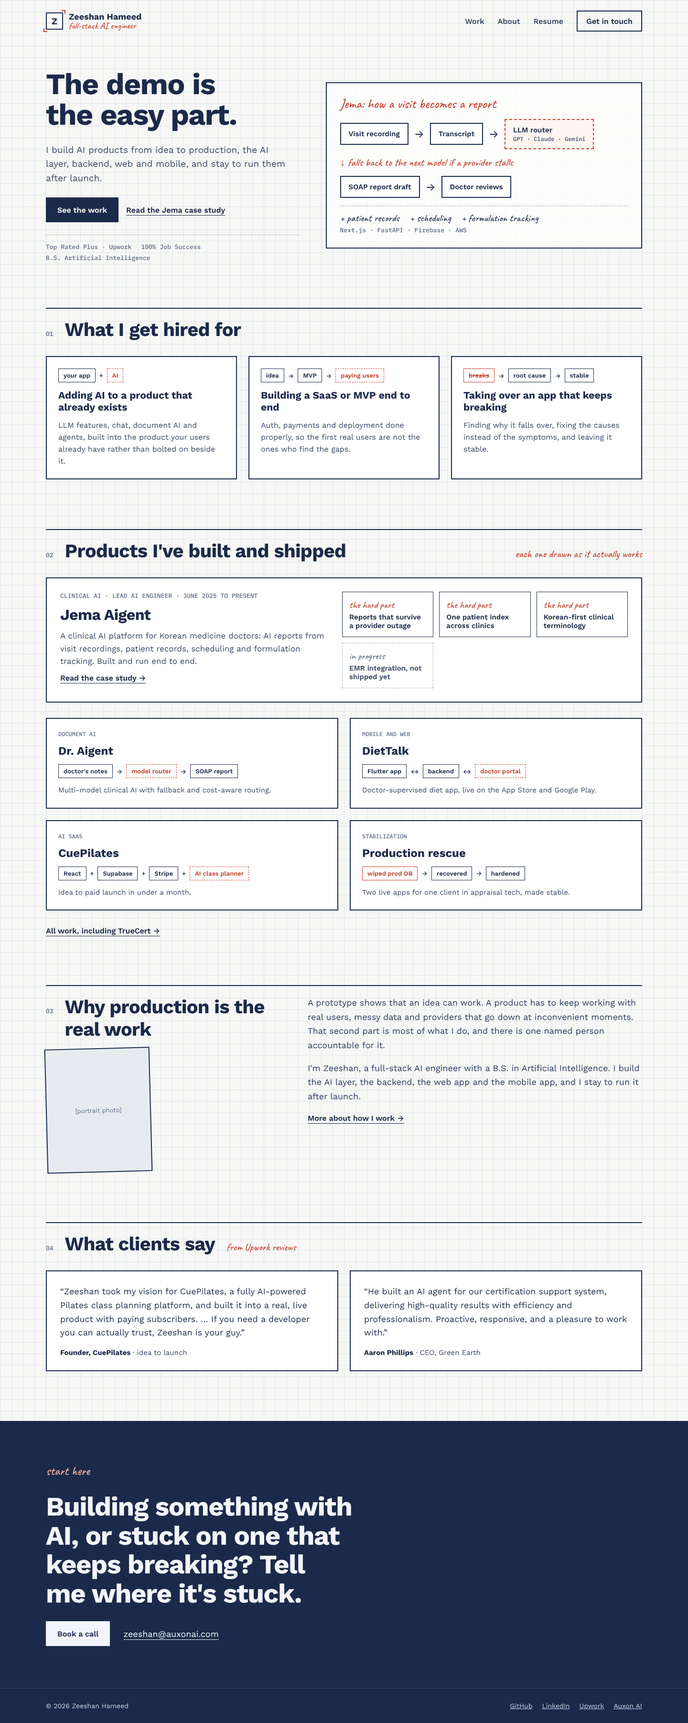
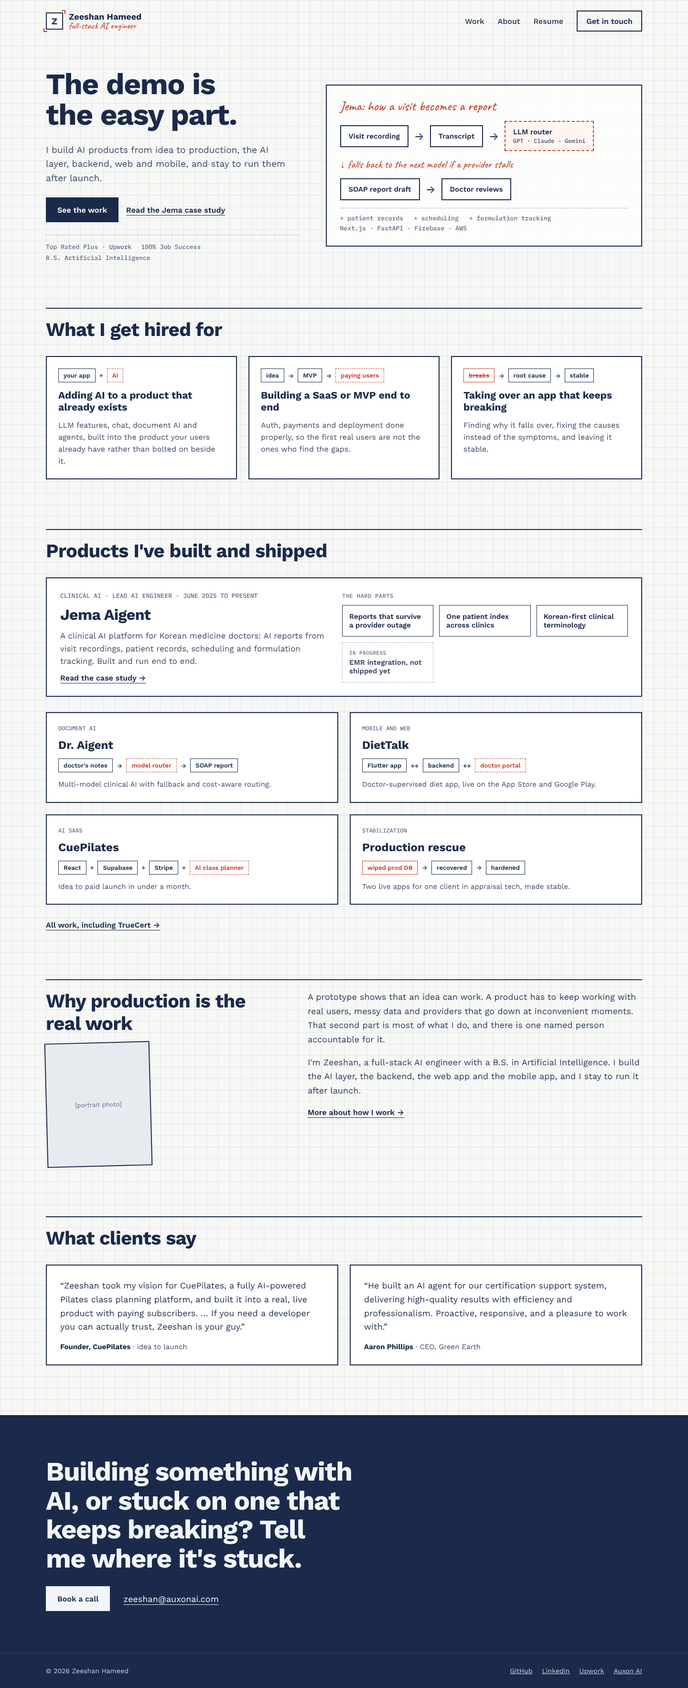
Update Blueprint design reference and add review-fixes handoff

diff --git a/docs/design/blueprint/RZ-Home.html b/docs/design/blueprint/RZ-Home.html
@@ -42,18 +42,15 @@
       <figcaption style="font-family: 'Caveat', cursive; font-size: 28px; color: #C2412D; line-height: 1.1">Jema: how a visit becomes a report</figcaption>
       <div style="display: flex; flex-wrap: wrap; align-items: center; gap: 12px">
         <div style="padding: 12px 16px; border: 2px solid #1B2A4A; background: #FFFFFF; font-weight: 600; font-size: 15px">Visit recording</div>
-        <span aria-hidden="true" style="font-size: 22px">→</span>
-        <div style="padding: 12px 16px; border: 2px solid #1B2A4A; background: #FFFFFF; font-weight: 600; font-size: 15px">Transcript</div>
-        <span aria-hidden="true" style="font-size: 22px">→</span>
-        <div style="padding: 12px 16px; border: 2px dashed #C2412D; background: #FFF6F2; display: flex; flex-direction: column; gap: 2px"><span style="font-weight: 600; font-size: 15px">LLM router</span><span style="font-family: 'IBM Plex Mono', ui-monospace, monospace; font-size: 12px; color: #3A4865">GPT · Claude · Gemini</span></div>
+        <div style="display: flex; align-items: center; gap: 12px"><span aria-hidden="true" style="font-size: 22px">→</span><div style="padding: 12px 16px; border: 2px solid #1B2A4A; background: #FFFFFF; font-weight: 600; font-size: 15px">Transcript</div></div>
+        <div style="display: flex; align-items: center; gap: 12px"><span aria-hidden="true" style="font-size: 22px">→</span><div style="padding: 12px 16px; border: 2px dashed #C2412D; background: #FFF6F2; display: flex; flex-direction: column; gap: 2px"><span style="font-weight: 600; font-size: 15px">LLM router</span><span style="font-family: 'IBM Plex Mono', ui-monospace, monospace; font-size: 12px; color: #3A4865">GPT · Claude · Gemini</span></div></div>
       </div>
       <span style="font-family: 'Caveat', cursive; font-size: 22px; color: #C2412D; line-height: 1.1">↓ falls back to the next model if a provider stalls</span>
       <div style="display: flex; flex-wrap: wrap; align-items: center; gap: 12px">
         <div style="padding: 12px 16px; border: 2px solid #1B2A4A; background: #FFFFFF; font-weight: 600; font-size: 15px">SOAP report draft</div>
-        <span aria-hidden="true" style="font-size: 22px">→</span>
-        <div style="padding: 12px 16px; border: 2px solid #1B2A4A; background: #FFFFFF; font-weight: 600; font-size: 15px">Doctor reviews</div>
+        <div style="display: flex; align-items: center; gap: 12px"><span aria-hidden="true" style="font-size: 22px">→</span><div style="padding: 12px 16px; border: 2px solid #1B2A4A; background: #FFFFFF; font-weight: 600; font-size: 15px">Doctor reviews</div></div>
       </div>
-      <div style="display: flex; flex-wrap: wrap; gap: 4px 22px; padding-top: 12px; border-top: 1.5px dashed #9AA6BA; font-family: 'Caveat', cursive; font-size: 21px">
+      <div style="display: flex; flex-wrap: wrap; gap: 4px 22px; padding-top: 12px; border-top: 1.5px dashed #9AA6BA; font-family: 'IBM Plex Mono', ui-monospace, monospace; font-size: 13px; color: #5E6B84">
         <span>+ patient records</span><span>+ scheduling</span><span>+ formulation tracking</span><span style="font-family: 'IBM Plex Mono', ui-monospace, monospace; font-size: 13px; color: #5E6B84; align-self: center">Next.js · FastAPI · Firebase · AWS</span>
       </div>
     </figure>
@@ -62,22 +59,21 @@
   <!-- HIRED FOR -->
   <section style="max-width: 1296px; margin: 0 auto; padding: 0 24px 104px; box-sizing: border-box; display: flex; flex-direction: column; gap: 32px">
     <div style="display: flex; flex-wrap: wrap; align-items: baseline; gap: 8px 24px; border-top: 2px solid #1B2A4A; padding-top: 20px">
-      <span style="font-family: 'IBM Plex Mono', ui-monospace, monospace; font-size: 13px; color: #5E6B84">01</span>
       <h2 style="margin: 0; font-size: clamp(28px, 3vw, 40px); letter-spacing: -0.02em">What I get hired for</h2>
     </div>
     <div style="display: grid; grid-template-columns: repeat(auto-fit, minmax(min(340px, 100%), 1fr)); gap: 24px">
       <article style="display: flex; flex-direction: column; gap: 14px; padding: 24px; background: #FFFFFF; border: 2px solid #1B2A4A">
-        <div aria-hidden="true" style="display: flex; align-items: center; gap: 8px; font-size: 13px; font-weight: 600"><span style="padding: 6px 10px; border: 1.5px solid #1B2A4A">your app</span><span>+</span><span style="padding: 6px 10px; border: 1.5px dashed #C2412D; color: #C2412D">AI</span></div>
+        <div aria-hidden="true" style="display: flex; align-items: center; gap: 8px; font-size: 13px; font-weight: 600"><span style="padding: 6px 10px; border: 1.5px solid #1B2A4A">your app</span><span style="display: inline-flex; align-items: center; gap: 8px"><span>+</span><span style="padding: 6px 10px; border: 1.5px dashed #C2412D; color: #C2412D">AI</span></span></div>
         <h3 style="margin: 0; font-size: 21px">Adding AI to a product that already exists</h3>
         <p style="margin: 0; font-size: 16px; line-height: 1.55; color: #3A4865">LLM features, chat, document AI and agents, built into the product your users already have rather than bolted on beside it.</p>
       </article>
       <article style="display: flex; flex-direction: column; gap: 14px; padding: 24px; background: #FFFFFF; border: 2px solid #1B2A4A">
-        <div aria-hidden="true" style="display: flex; align-items: center; gap: 8px; font-size: 13px; font-weight: 600"><span style="padding: 6px 10px; border: 1.5px solid #1B2A4A">idea</span><span>→</span><span style="padding: 6px 10px; border: 1.5px solid #1B2A4A">MVP</span><span>→</span><span style="padding: 6px 10px; border: 1.5px dashed #C2412D; color: #C2412D">paying users</span></div>
+        <div aria-hidden="true" style="display: flex; align-items: center; gap: 8px; font-size: 13px; font-weight: 600"><span style="padding: 6px 10px; border: 1.5px solid #1B2A4A">idea</span><span style="display: inline-flex; align-items: center; gap: 8px"><span>→</span><span style="padding: 6px 10px; border: 1.5px solid #1B2A4A">MVP</span></span><span style="display: inline-flex; align-items: center; gap: 8px"><span>→</span><span style="padding: 6px 10px; border: 1.5px dashed #C2412D; color: #C2412D">paying users</span></span></div>
         <h3 style="margin: 0; font-size: 21px">Building a SaaS or MVP end to end</h3>
         <p style="margin: 0; font-size: 16px; line-height: 1.55; color: #3A4865">Auth, payments and deployment done properly, so the first real users are not the ones who find the gaps.</p>
       </article>
       <article style="display: flex; flex-direction: column; gap: 14px; padding: 24px; background: #FFFFFF; border: 2px solid #1B2A4A">
-        <div aria-hidden="true" style="display: flex; align-items: center; gap: 8px; font-size: 13px; font-weight: 600"><span style="padding: 6px 10px; border: 1.5px solid #C2412D; color: #C2412D; text-decoration: line-through">breaks</span><span>→</span><span style="padding: 6px 10px; border: 1.5px solid #1B2A4A">root cause</span><span>→</span><span style="padding: 6px 10px; border: 1.5px solid #1B2A4A">stable</span></div>
+        <div aria-hidden="true" style="display: flex; align-items: center; gap: 8px; font-size: 13px; font-weight: 600"><span style="padding: 6px 10px; border: 1.5px solid #C2412D; color: #C2412D; text-decoration: line-through">breaks</span><span style="display: inline-flex; align-items: center; gap: 8px"><span>→</span><span style="padding: 6px 10px; border: 1.5px solid #1B2A4A">root cause</span></span><span style="display: inline-flex; align-items: center; gap: 8px"><span>→</span><span style="padding: 6px 10px; border: 1.5px solid #1B2A4A">stable</span></span></div>
         <h3 style="margin: 0; font-size: 21px">Taking over an app that keeps breaking</h3>
         <p style="margin: 0; font-size: 16px; line-height: 1.55; color: #3A4865">Finding why it falls over, fixing the causes instead of the symptoms, and leaving it stable.</p>
       </article>
@@ -87,8 +83,7 @@
   <!-- WORK -->
   <section id="work" style="max-width: 1296px; margin: 0 auto; padding: 0 24px 104px; box-sizing: border-box; display: flex; flex-direction: column; gap: 32px">
     <div style="display: flex; flex-wrap: wrap; align-items: baseline; justify-content: space-between; gap: 8px 24px; border-top: 2px solid #1B2A4A; padding-top: 20px">
-      <div style="display: flex; align-items: baseline; gap: 24px"><span style="font-family: 'IBM Plex Mono', ui-monospace, monospace; font-size: 13px; color: #5E6B84">02</span><h2 style="margin: 0; font-size: clamp(28px, 3vw, 40px); letter-spacing: -0.02em">Products I've built and shipped</h2></div>
-      <span style="font-family: 'Caveat', cursive; font-size: 22px; color: #C2412D">each one drawn as it actually works</span>
+      <div style="display: flex; align-items: baseline; gap: 24px"><h2 style="margin: 0; font-size: clamp(28px, 3vw, 40px); letter-spacing: -0.02em">Products I've built and shipped</h2></div>
     </div>
 
     <a href="#" style="display: flex; flex-wrap: wrap; gap: 32px; padding: 28px; background: #FFFFFF; border: 2px solid #1B2A4A; text-decoration: none; color: #1B2A4A">
@@ -99,10 +94,11 @@
         <span style="font-weight: 600; text-decoration: underline; text-underline-offset: 5px">Read the case study →</span>
       </div>
       <div aria-hidden="true" style="flex: 1 1 420px; min-width: 0; display: grid; grid-template-columns: repeat(auto-fit, minmax(min(180px, 100%), 1fr)); gap: 12px; align-content: center">
-        <div style="padding: 14px; border: 1.5px solid #1B2A4A; display: flex; flex-direction: column; gap: 4px"><span style="font-family: 'Caveat', cursive; font-size: 20px; color: #C2412D">the hard part</span><span style="font-size: 15px; font-weight: 600">Reports that survive a provider outage</span></div>
-        <div style="padding: 14px; border: 1.5px solid #1B2A4A; display: flex; flex-direction: column; gap: 4px"><span style="font-family: 'Caveat', cursive; font-size: 20px; color: #C2412D">the hard part</span><span style="font-size: 15px; font-weight: 600">One patient index across clinics</span></div>
-        <div style="padding: 14px; border: 1.5px solid #1B2A4A; display: flex; flex-direction: column; gap: 4px"><span style="font-family: 'Caveat', cursive; font-size: 20px; color: #C2412D">the hard part</span><span style="font-size: 15px; font-weight: 600">Korean-first clinical terminology</span></div>
-        <div style="padding: 14px; border: 1.5px dashed #9AA6BA; display: flex; flex-direction: column; gap: 4px"><span style="font-family: 'Caveat', cursive; font-size: 20px; color: #5E6B84">in progress</span><span style="font-size: 15px; font-weight: 600; color: #3A4865">EMR integration, not shipped yet</span></div>
+        <span style="grid-column: 1 / -1; font-family: 'IBM Plex Mono', ui-monospace, monospace; font-size: 12px; letter-spacing: 0.04em; color: #5E6B84">THE HARD PARTS</span>
+        <div style="padding: 14px; border: 1.5px solid #1B2A4A; display: flex; flex-direction: column; gap: 4px"><span style="font-size: 15px; font-weight: 600">Reports that survive a provider outage</span></div>
+        <div style="padding: 14px; border: 1.5px solid #1B2A4A; display: flex; flex-direction: column; gap: 4px"><span style="font-size: 15px; font-weight: 600">One patient index across clinics</span></div>
+        <div style="padding: 14px; border: 1.5px solid #1B2A4A; display: flex; flex-direction: column; gap: 4px"><span style="font-size: 15px; font-weight: 600">Korean-first clinical terminology</span></div>
+        <div style="padding: 14px; border: 1.5px dashed #9AA6BA; display: flex; flex-direction: column; gap: 4px"><span style="font-family: 'IBM Plex Mono', ui-monospace, monospace; font-size: 11px; letter-spacing: 0.04em; color: #5E6B84">IN PROGRESS</span><span style="font-size: 15px; font-weight: 600; color: #3A4865">EMR integration, not shipped yet</span></div>
       </div>
     </a>
 
@@ -110,25 +106,25 @@
       <a href="#" style="display: flex; flex-direction: column; gap: 14px; padding: 24px; background: #FFFFFF; border: 2px solid #1B2A4A; text-decoration: none; color: #1B2A4A">
         <span style="font-family: 'IBM Plex Mono', ui-monospace, monospace; font-size: 12px; color: #5E6B84">DOCUMENT AI</span>
         <h3 style="margin: 0; font-size: 24px">Dr. Aigent</h3>
-        <div aria-hidden="true" style="display: flex; flex-wrap: wrap; align-items: center; gap: 8px; font-size: 13px; font-weight: 600"><span style="padding: 6px 10px; border: 1.5px solid #1B2A4A">doctor's notes</span><span>→</span><span style="padding: 6px 10px; border: 1.5px dashed #C2412D; color: #C2412D">model router</span><span>→</span><span style="padding: 6px 10px; border: 1.5px solid #1B2A4A">SOAP report</span></div>
+        <div aria-hidden="true" style="display: flex; flex-wrap: wrap; align-items: center; gap: 8px; font-size: 13px; font-weight: 600"><span style="padding: 6px 10px; border: 1.5px solid #1B2A4A">doctor's notes</span><span style="display: inline-flex; align-items: center; gap: 8px"><span>→</span><span style="padding: 6px 10px; border: 1.5px dashed #C2412D; color: #C2412D">model router</span></span><span style="display: inline-flex; align-items: center; gap: 8px"><span>→</span><span style="padding: 6px 10px; border: 1.5px solid #1B2A4A">SOAP report</span></span></div>
         <p style="margin: 0; font-size: 15px; line-height: 1.55; color: #3A4865">Multi-model clinical AI with fallback and cost-aware routing.</p>
       </a>
       <a href="#" style="display: flex; flex-direction: column; gap: 14px; padding: 24px; background: #FFFFFF; border: 2px solid #1B2A4A; text-decoration: none; color: #1B2A4A">
         <span style="font-family: 'IBM Plex Mono', ui-monospace, monospace; font-size: 12px; color: #5E6B84">MOBILE AND WEB</span>
         <h3 style="margin: 0; font-size: 24px">DietTalk</h3>
-        <div aria-hidden="true" style="display: flex; flex-wrap: wrap; align-items: center; gap: 8px; font-size: 13px; font-weight: 600"><span style="padding: 6px 10px; border: 1.5px solid #1B2A4A">Flutter app</span><span>↔</span><span style="padding: 6px 10px; border: 1.5px solid #1B2A4A">backend</span><span>↔</span><span style="padding: 6px 10px; border: 1.5px dashed #C2412D; color: #C2412D">doctor portal</span></div>
+        <div aria-hidden="true" style="display: flex; flex-wrap: wrap; align-items: center; gap: 8px; font-size: 13px; font-weight: 600"><span style="padding: 6px 10px; border: 1.5px solid #1B2A4A">Flutter app</span><span style="display: inline-flex; align-items: center; gap: 8px"><span>↔</span><span style="padding: 6px 10px; border: 1.5px solid #1B2A4A">backend</span></span><span style="display: inline-flex; align-items: center; gap: 8px"><span>↔</span><span style="padding: 6px 10px; border: 1.5px dashed #C2412D; color: #C2412D">doctor portal</span></span></div>
         <p style="margin: 0; font-size: 15px; line-height: 1.55; color: #3A4865">Doctor-supervised diet app, live on the App Store and Google Play.</p>
       </a>
       <a href="#" style="display: flex; flex-direction: column; gap: 14px; padding: 24px; background: #FFFFFF; border: 2px solid #1B2A4A; text-decoration: none; color: #1B2A4A">
         <span style="font-family: 'IBM Plex Mono', ui-monospace, monospace; font-size: 12px; color: #5E6B84">AI SAAS</span>
         <h3 style="margin: 0; font-size: 24px">CuePilates</h3>
-        <div aria-hidden="true" style="display: flex; flex-wrap: wrap; align-items: center; gap: 8px; font-size: 13px; font-weight: 600"><span style="padding: 6px 10px; border: 1.5px solid #1B2A4A">React</span><span>+</span><span style="padding: 6px 10px; border: 1.5px solid #1B2A4A">Supabase</span><span>+</span><span style="padding: 6px 10px; border: 1.5px solid #1B2A4A">Stripe</span><span>+</span><span style="padding: 6px 10px; border: 1.5px dashed #C2412D; color: #C2412D">AI class planner</span></div>
+        <div aria-hidden="true" style="display: flex; flex-wrap: wrap; align-items: center; gap: 8px; font-size: 13px; font-weight: 600"><span style="padding: 6px 10px; border: 1.5px solid #1B2A4A">React</span><span style="display: inline-flex; align-items: center; gap: 8px"><span>+</span><span style="padding: 6px 10px; border: 1.5px solid #1B2A4A">Supabase</span></span><span style="display: inline-flex; align-items: center; gap: 8px"><span>+</span><span style="padding: 6px 10px; border: 1.5px solid #1B2A4A">Stripe</span></span><span style="display: inline-flex; align-items: center; gap: 8px"><span>+</span><span style="padding: 6px 10px; border: 1.5px dashed #C2412D; color: #C2412D">AI class planner</span></span></div>
         <p style="margin: 0; font-size: 15px; line-height: 1.55; color: #3A4865">Idea to paid launch in under a month.</p>
       </a>
       <a href="#" style="display: flex; flex-direction: column; gap: 14px; padding: 24px; background: #FFFFFF; border: 2px solid #1B2A4A; text-decoration: none; color: #1B2A4A">
         <span style="font-family: 'IBM Plex Mono', ui-monospace, monospace; font-size: 12px; color: #5E6B84">STABILIZATION</span>
         <h3 style="margin: 0; font-size: 24px">Production rescue</h3>
-        <div aria-hidden="true" style="display: flex; flex-wrap: wrap; align-items: center; gap: 8px; font-size: 13px; font-weight: 600"><span style="padding: 6px 10px; border: 1.5px solid #C2412D; color: #C2412D">wiped prod DB</span><span>→</span><span style="padding: 6px 10px; border: 1.5px solid #1B2A4A">recovered</span><span>→</span><span style="padding: 6px 10px; border: 1.5px solid #1B2A4A">hardened</span></div>
+        <div aria-hidden="true" style="display: flex; flex-wrap: wrap; align-items: center; gap: 8px; font-size: 13px; font-weight: 600"><span style="padding: 6px 10px; border: 1.5px solid #C2412D; color: #C2412D">wiped prod DB</span><span style="display: inline-flex; align-items: center; gap: 8px"><span>→</span><span style="padding: 6px 10px; border: 1.5px solid #1B2A4A">recovered</span></span><span style="display: inline-flex; align-items: center; gap: 8px"><span>→</span><span style="padding: 6px 10px; border: 1.5px solid #1B2A4A">hardened</span></span></div>
         <p style="margin: 0; font-size: 15px; line-height: 1.55; color: #3A4865">Two live apps for one client in appraisal tech, made stable.</p>
       </a>
     </div>
@@ -139,7 +135,7 @@
   <section id="about" style="max-width: 1296px; margin: 0 auto; padding: 0 24px 104px; box-sizing: border-box">
     <div style="display: flex; flex-wrap: wrap; gap: 48px; border-top: 2px solid #1B2A4A; padding-top: 20px">
       <div style="flex: 1 1 300px; display: flex; flex-direction: column; gap: 16px">
-        <div style="display: flex; align-items: baseline; gap: 24px"><span style="font-family: 'IBM Plex Mono', ui-monospace, monospace; font-size: 13px; color: #5E6B84">03</span><h2 style="margin: 0; font-size: clamp(28px, 3vw, 40px); letter-spacing: -0.02em">Why production is the real work</h2></div>
+        <div style="display: flex; align-items: baseline; gap: 24px"><h2 style="margin: 0; font-size: clamp(28px, 3vw, 40px); letter-spacing: -0.02em">Why production is the real work</h2></div>
         <div style="width: 220px; height: 260px; border: 2px solid #1B2A4A; background: #E7EBF0; display: flex; align-items: center; justify-content: center; font-size: 13px; color: #5E6B84; transform: rotate(-1.5deg)">[portrait photo]</div>
       </div>
       <div style="flex: 1.4 1 420px; min-width: 0; display: flex; flex-direction: column; gap: 18px; font-size: 18px; line-height: 1.65; color: #2B3A5A">
@@ -153,9 +149,7 @@
   <!-- REVIEWS -->
   <section style="max-width: 1296px; margin: 0 auto; padding: 0 24px 104px; box-sizing: border-box; display: flex; flex-direction: column; gap: 32px">
     <div style="display: flex; flex-wrap: wrap; align-items: baseline; gap: 8px 24px; border-top: 2px solid #1B2A4A; padding-top: 20px">
-      <span style="font-family: 'IBM Plex Mono', ui-monospace, monospace; font-size: 13px; color: #5E6B84">04</span>
       <h2 style="margin: 0; font-size: clamp(28px, 3vw, 40px); letter-spacing: -0.02em">What clients say</h2>
-      <span style="font-family: 'Caveat', cursive; font-size: 21px; color: #C2412D">from Upwork reviews</span>
     </div>
     <div style="display: grid; grid-template-columns: repeat(auto-fit, minmax(min(420px, 100%), 1fr)); gap: 24px">
       <figure style="margin: 0; padding: 28px; background: #FFFFFF; border: 2px solid #1B2A4A; display: flex; flex-direction: column; gap: 18px">
@@ -172,7 +166,6 @@
   <!-- CONTACT -->
   <section id="contact" style="background: #1B2A4A; color: #F2F5FA">
     <div style="max-width: 1296px; margin: 0 auto; padding: 88px 24px; box-sizing: border-box; display: flex; flex-direction: column; gap: 28px">
-      <span style="font-family: 'Caveat', cursive; font-size: 26px; color: #FFB59E">start here</span>
       <h2 style="margin: 0; font-size: clamp(32px, 4vw, 56px); line-height: 1.08; letter-spacing: -0.025em; max-width: 900px; text-wrap: balance">Building something with AI, or stuck on one that keeps breaking? Tell me where it's stuck.</h2>
       <div style="display: flex; flex-wrap: wrap; gap: 12px 28px; align-items: center">
         <a href="#" style="display: flex; align-items: center; min-height: 52px; padding: 0 24px; background: #F2F5FA; color: #1B2A4A; text-decoration: none; font-weight: 600">Book a call</a>

diff --git a/docs/design/blueprint/HANDOFF-review-fixes.md b/docs/design/blueprint/HANDOFF-review-fixes.md
@@ -1,0 +1,105 @@
+# Claude Code handoff: r-zeeshan.dev review fixes (Oct 23, 2026)
+
+Paste everything below the line into Claude Code, opened in the `r-zeeshan` repo.
+
+---
+
+The Blueprint redesign is live. It was reviewed with the **apple-look** skill (Apple's Human Interface Guidelines plus a craft lens) and the **apple-design** skill (Apple's fluid-interface and typography rules for the web). Apply the fixes below.
+
+## Before you start
+
+1. If the `/apple-look` and `/apple-design` skills are available in this session, load both now. Use them as the rulebook for every change, and run `/apple-look` again at the end as a self-review.
+   - If they aren't available, the findings below are self-contained. Follow them as written.
+2. Read `docs/design/blueprint/DESIGN.md`. It is still the design authority.
+3. Look at the updated mockup and screenshots in `docs/design/blueprint/`:
+   - `RZ-Home.html`
+   - `screens/RZ-Home-desktop.png`
+   - `screens/RZ-Home-mobile.png`
+
+   They show the target. Only the craft changes below differ from what is live.
+
+This is a **refinement pass**. Keep the layout, copy, routes, data and motion exactly as they are, except where a fix below says otherwise.
+
+## Fixes, in this order
+
+### 1. Text must follow the visitor's text-size setting (High)
+
+- **The problem:** every size is in fixed px (`src/index.css` lines ~48–125, `tailwind.config.ts`, and `text-[Npx]` classes in components). Raising the browser's default font size changes nothing; only zoom works.
+  - **Apple rule:** `accessibility.md › Support larger text sizes` ("enlarge text by at least 200 percent").
+- **The fix:** leave `html` at the browser default (no px font-size on `html`). Convert type and type-related spacing to `rem`, with 16px = 1rem:
+  - body: `17px` becomes `1.0625rem`
+  - lead: `19px` becomes `1.1875rem`
+  - h1: `clamp(38px, 4.4vw, 62px)` becomes `clamp(2.375rem, 4.4vw, 3.875rem)`
+  - h2: `clamp(28px, 3vw, 40px)` becomes `clamp(1.75rem, 3vw, 2.5rem)`
+  - mono labels: `13px` becomes `0.8125rem`, `12px` becomes `0.75rem`
+  - In `src/components/blueprint/Diagram.tsx`, replace `text-[15px]`, `text-[13px]`, `text-[12px]`, `text-[11px]`, `text-[22px]` and `text-[16px]` with rem values.
+  - Do the same for the `Note` sizes passed as px numbers.
+- **Check:** set `document.documentElement.style.fontSize = '24px'` in DevTools. Body and headings must grow by about 1.5×, and nothing may overflow at 390px or 1440px.
+
+### 2. No loose arrows when a diagram wraps (Medium)
+
+- **The problem:** on desktop, the Dr. Aigent and CuePilates work cards wrap onto a second row that starts with a bare "→".
+  - **Apple rule:** `layout.md › Align elements to make them easier to scan`.
+- **The fix:** `DiagramStep` in `src/components/blueprint/Diagram.tsx` already binds an arrow to the node after it. Make `WorkDiagram.tsx` always use the bound form (`bound` on every step after the first), on cards and on case-study pages. A wrapped row must then start with a node.
+
+### 3. Remove section numbers from things that aren't a sequence (High, craft)
+
+- **The problem:** "01 / 02 / 03 / 04" sit on What I get hired for, Products, Why production is the real work, and What clients say. None of these is a sequence.
+  - **Skill rule:** apple-look flags "01 / 02 / 03 markers on content that isn't a sequence" as a generated-template tell.
+- **The fix:** remove the `number` prop from those `SectionHeader` uses: `HiredFor.tsx`, `SelectedWork.tsx`, `Testimonials.tsx` and the About section. Make `number` optional in `SectionHeader.tsx`, rendering nothing when absent, so the 2px top rule plus the h2 remains.
+
+### 4. Cut the handwritten notes to the two that earn it (Medium, craft)
+
+- **The problem:** there are 13 Caveat notes on the homepage. DESIGN.md allows at most about 2 per section, and "the hard part" repeats three times.
+  - **Apple rule:** `branding.md › Apply your app's accent color judiciously`. The same applies to a signature font.
+- **Keep:**
+  - the logo descriptor;
+  - the hero caption ("Jema AIgent: how a visit becomes a report");
+  - the hero fallback note ("↓ falls back to the next model if a provider stalls");
+  - the same caption on each case-study page;
+  - the 404 note.
+- **Remove:**
+  - the `note` on `SelectedWork` ("each one drawn as it actually works") and on `Testimonials` ("from Upwork reviews");
+  - "start here" in `GetInTouch.tsx`.
+- **Change:**
+  - The hero extras line (`+ patient records · + scheduling · + formulation tracking`, in `Hero.tsx:49` and `CaseStudy.tsx:106`) becomes the mono style, 13px equivalent, in `--muted`, on the same line style as the stack.
+  - In `WorkCards.tsx`, remove the three "the hard part" Notes. Put one mono label **"THE HARD PARTS"** (0.75rem, letter-spacing 0.04em, `--muted`) above the grid of hard-part boxes.
+  - The "in progress" note becomes a mono label "IN PROGRESS" (0.6875rem).
+
+### 5. Respect "increase contrast" (Medium)
+
+- **The problem:** the stylesheet has no `prefers-contrast` support.
+  - **Apple rule:** `color.md › Make sure all your app's colors work well in light, dark, and increased contrast contexts`.
+- **The fix:** add `@media (prefers-contrast: more)` with:
+  - `--muted: #3A4865`
+  - `--rule-dash: #5E6B84`
+  - grid lines removed from `body` (`background-image: none`)
+  - dashed borders kept, but 2px
+
+### 6. Phone header in two rows, not three (Low)
+
+- **The problem:** at 390px the logo, the links and "Get in touch" stack into three rows (about 110px).
+- **The fix:** below 640px, put the logo and "Get in touch" on row 1 and the text links on row 2, with every link still at least 44px tall. Don't hide any navigation.
+
+### 7. Optional polish (Low)
+
+None of these is a defect; do them only if cheap:
+
+- Animate FAQ or disclosure opening (if any) over about 200ms (height plus opacity), with ease-out `cubic-bezier(0.23,1,0.32,1)`.
+- Keep `prefers-reduced-motion` as a 150ms fade.
+
+## Do not change
+
+- **Motion:** it passed review. The entrance finishes in about 760ms, press state is `scale(.97)` on `:active`, hover styles only apply on devices that can hover, and reduced motion is honoured.
+- **Contrast:** 0 failures across all text, so don't lighten any colour.
+- **Everything else:** copy, data in `src/lib/work.ts`, routes, SEO, OG images.
+
+## Done means
+
+- `npm run build` passes, and the sitemap still generates.
+- The text-size check in fix 1 passes. There is no horizontal scroll at 390px.
+- No diagram row starts with an arrow at 1440px, 1024px or 768px.
+- The homepage has at most 3 Caveat notes, counting the logo. No section numbers remain.
+- Run `/apple-look` (if available) on the result and fix anything Critical or High it finds.
+- Take screenshots of Home and the Jema case study at 1440px and 390px, and compare them with `docs/design/blueprint/screens/`.
+- **Don't commit or push until I've reviewed the screenshots.**
